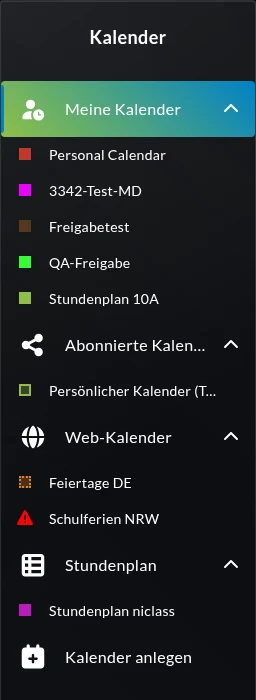
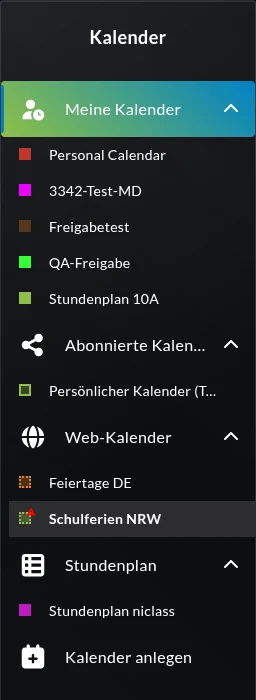
Warnsymbol neben dem Farbfeld beschreiben

Changed region(s): [[0.0312, 0.69, 1.0, 0.78]]

diff --git a/docs/edulution-plattform/apps/native-apps/kalender.md b/docs/edulution-plattform/apps/native-apps/kalender.md
@@ -442,7 +442,7 @@ Der Server ruft jeden abonnierten Web-Kalender **etwa einmal pro Stunde** ab und
 
 Möchten Sie eine Änderung sofort sehen, wählen Sie im Kontextmenü des Kalenders **Jetzt aktualisieren**. Schlägt der Abruf fehl, erhalten Sie die Meldung **Der Kalender konnte nicht geladen werden.**
 
-Ist eine Quelle vorübergehend nicht erreichbar, bleiben die zuletzt geladenen Termine sichtbar; in der Seitenleiste tritt an die Stelle des Farbfelds ein rotes Warnsymbol. Fahren Sie mit der Maus darüber, erscheint **Aktualisierung fehlgeschlagen**. edulution wartet nach jedem Fehlversuch länger, bevor es erneut abruft, und versucht es bei einer dauerhaft nicht erreichbaren Quelle nur noch etwa einmal täglich. Sobald die Quelle wieder antwortet, verschwindet die Kennzeichnung von selbst.
+Ist eine Quelle vorübergehend nicht erreichbar, bleiben die zuletzt geladenen Termine sichtbar; in der Seitenleiste erscheint zusätzlich zum Farbfeld ein kleines rotes Warnsymbol. Fahren Sie mit der Maus darüber, erscheint **Aktualisierung fehlgeschlagen**. edulution wartet nach jedem Fehlversuch länger, bevor es erneut abruft, und versucht es bei einer dauerhaft nicht erreichbaren Quelle nur noch etwa einmal täglich. Sobald die Quelle wieder antwortet, verschwindet die Kennzeichnung von selbst.
 
 ![Seitenleiste mit einem Web-Kalender, dessen Aktualisierung fehlgeschlagen ist](/img/kalender/web-kalender-aktualisierung-fehlgeschlagen.webp)
 
